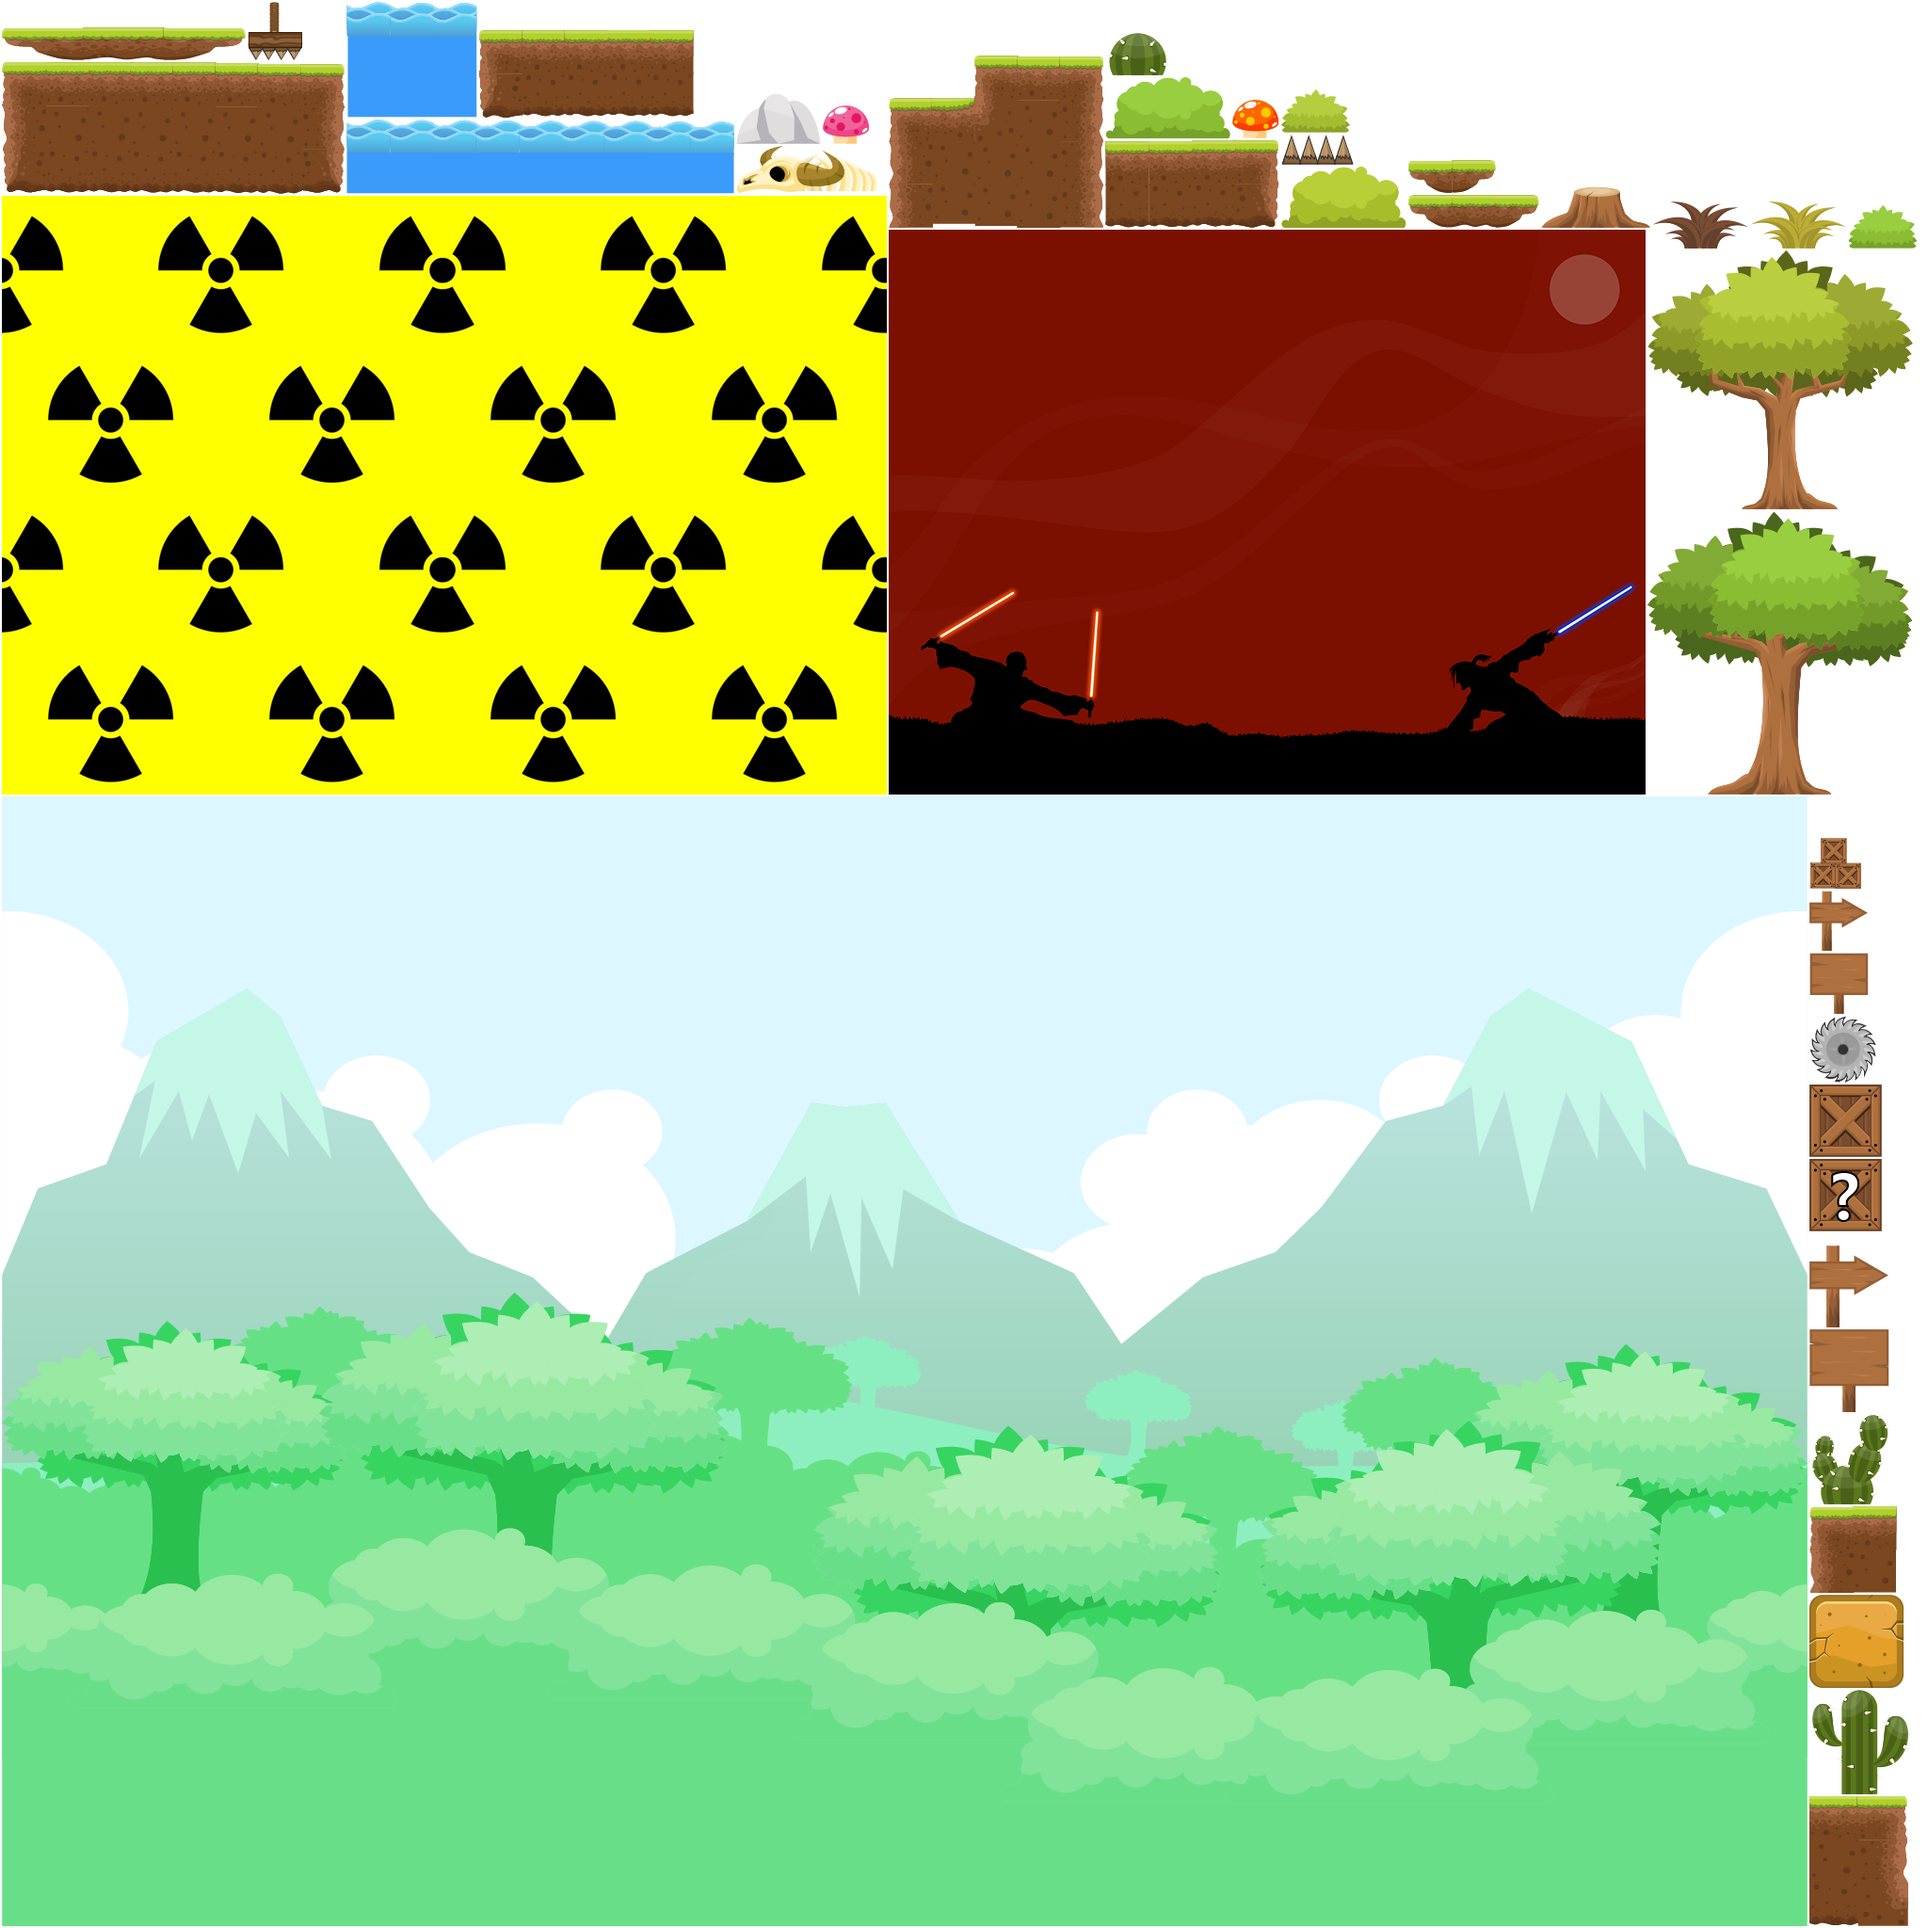
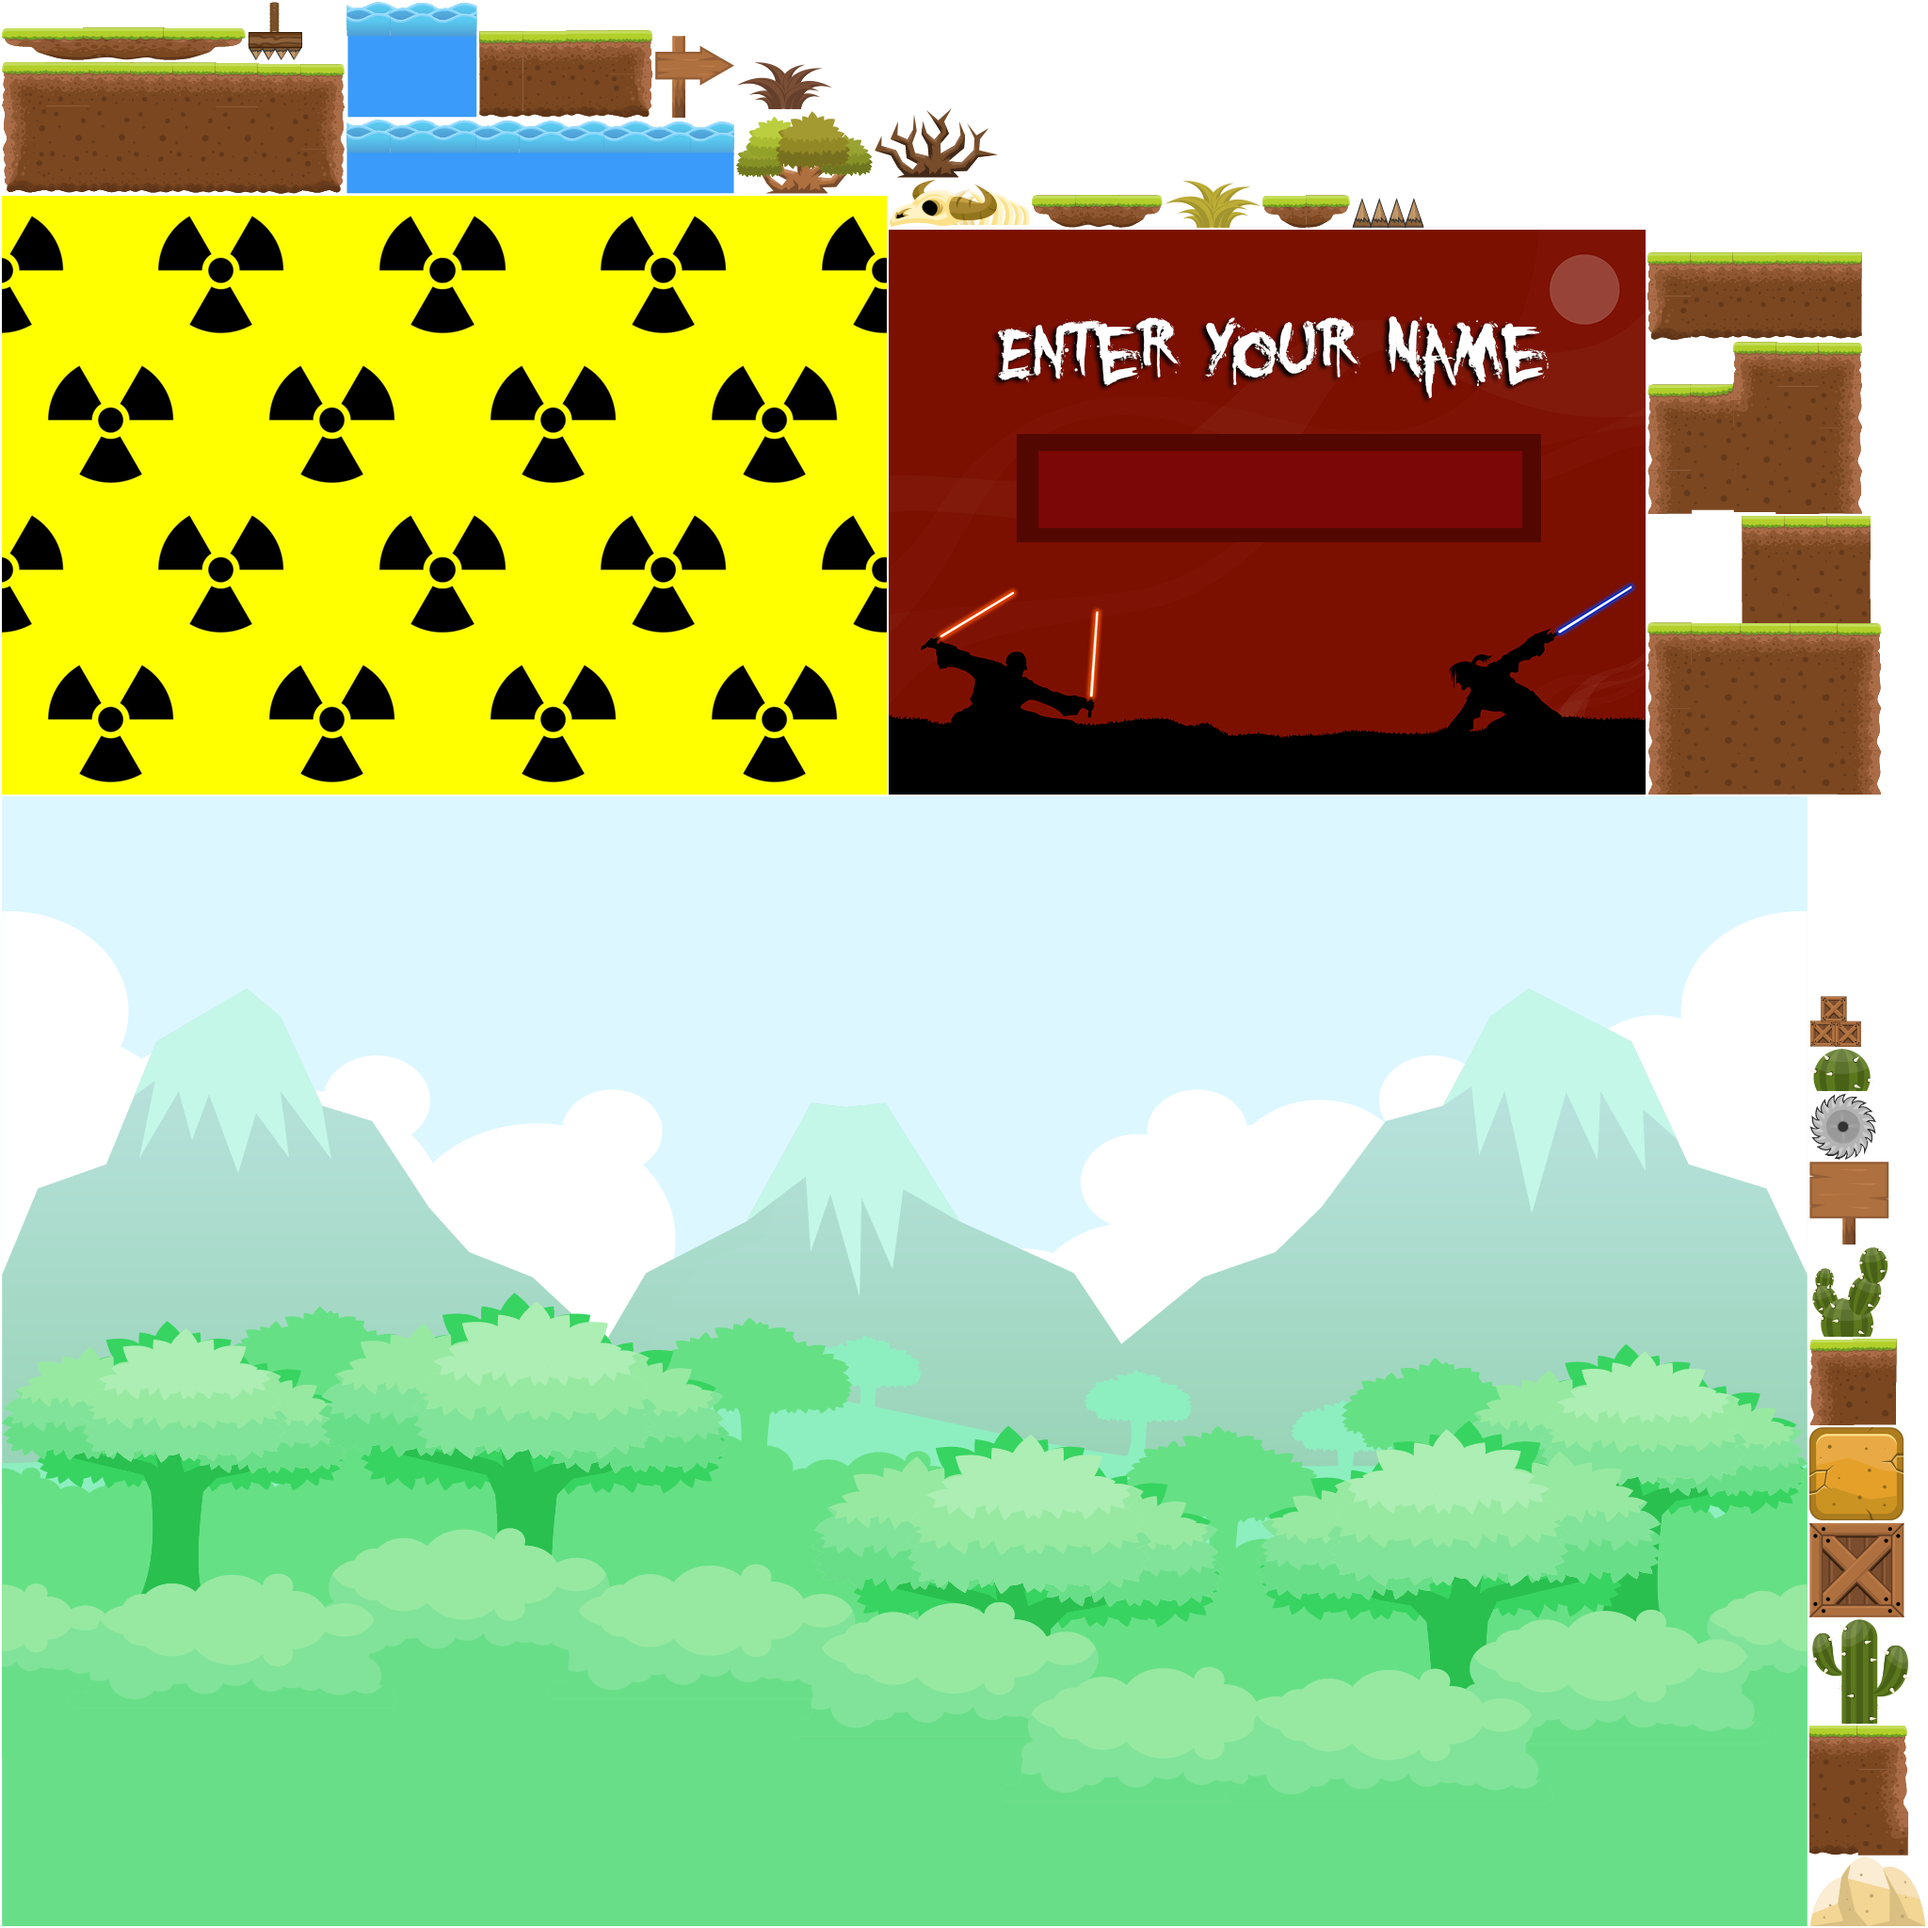
Can enter name

Changed region(s): [[0.3125, 0.0, 1.0, 1.0], [0.5, 0.1562, 0.8125, 0.2812], [0.25, 0.0, 0.2812, 0.0625]]

diff --git a/src/core/src/com/lms/scene/StartScene.java b/src/core/src/com/lms/scene/StartScene.java
@@ -1,6 +1,9 @@
 package com.lms.scene;
 
+import java.awt.font.FontRenderContext;
+
 import com.badlogic.gdx.Gdx;
+import com.badlogic.gdx.Input;
 import com.badlogic.gdx.graphics.OrthographicCamera;
 import com.badlogic.gdx.graphics.g2d.BitmapFont;
 import com.badlogic.gdx.graphics.g2d.SpriteBatch;
@@ -23,6 +26,8 @@ public class StartScene extends Scene{
 	private SpriteBatch batchFix;
 	private BitmapFont font;
 	private boolean play = false;
+
+	private String name = "";
 	
 	public StartScene(SceneLoader sl, Viewport vp, OrthographicCamera cam, SceneManage sm) {
 		super(sl, vp, cam, sm);
@@ -66,6 +71,49 @@ public class StartScene extends Scene{
 	}
 	
 	public void render() {
+		batchFix.begin();
+		if (name.length() < 10){
+		if (Gdx.input.isKeyJustPressed(Input.Keys.A)) name += "A";
+		 if (Gdx.input.isKeyJustPressed(Input.Keys.B)) name += "B";
+		 if (Gdx.input.isKeyJustPressed(Input.Keys.C)) name += "C";
+		 if (Gdx.input.isKeyJustPressed(Input.Keys.D)) name += "D";
+		 if (Gdx.input.isKeyJustPressed(Input.Keys.E)) name += "E";
+		 if (Gdx.input.isKeyJustPressed(Input.Keys.F)) name += "F";
+		 if (Gdx.input.isKeyJustPressed(Input.Keys.G)) name += "G";
+		 if (Gdx.input.isKeyJustPressed(Input.Keys.H)) name += "H";
+		 if (Gdx.input.isKeyJustPressed(Input.Keys.I)) name += "I";
+		 if (Gdx.input.isKeyJustPressed(Input.Keys.J)) name += "J";
+		 if (Gdx.input.isKeyJustPressed(Input.Keys.K)) name += "K";
+		 if (Gdx.input.isKeyJustPressed(Input.Keys.L)) name += "L";
+		 if (Gdx.input.isKeyJustPressed(Input.Keys.M)) name += "M";
+		 if (Gdx.input.isKeyJustPressed(Input.Keys.N)) name += "N";
+		 if (Gdx.input.isKeyJustPressed(Input.Keys.O)) name += "O";
+		 if (Gdx.input.isKeyJustPressed(Input.Keys.P)) name += "P";
+		 if (Gdx.input.isKeyJustPressed(Input.Keys.Q)) name += "Q";
+		 if (Gdx.input.isKeyJustPressed(Input.Keys.R)) name += "R";
+		 if (Gdx.input.isKeyJustPressed(Input.Keys.S)) name += "S";
+		 if (Gdx.input.isKeyJustPressed(Input.Keys.T)) name += "T";
+		 if (Gdx.input.isKeyJustPressed(Input.Keys.U)) name += "U";
+		 if (Gdx.input.isKeyJustPressed(Input.Keys.V)) name += "V";
+		 if (Gdx.input.isKeyJustPressed(Input.Keys.W)) name += "W";
+		 if (Gdx.input.isKeyJustPressed(Input.Keys.X)) name += "X";
+		 if (Gdx.input.isKeyJustPressed(Input.Keys.Y)) name += "Y";
+		 if (Gdx.input.isKeyJustPressed(Input.Keys.Z)) name += "Z";
+		 if (Gdx.input.isKeyJustPressed(Input.Keys.NUM_0)) name += "0";
+		 if (Gdx.input.isKeyJustPressed(Input.Keys.NUM_1)) name += "1";
+		 if (Gdx.input.isKeyJustPressed(Input.Keys.NUM_2)) name += "2";
+		 if (Gdx.input.isKeyJustPressed(Input.Keys.NUM_3)) name += "3";
+		 if (Gdx.input.isKeyJustPressed(Input.Keys.NUM_4)) name += "4";
+		 if (Gdx.input.isKeyJustPressed(Input.Keys.NUM_5)) name += "5";
+		 if (Gdx.input.isKeyJustPressed(Input.Keys.NUM_6)) name += "6";
+		 if (Gdx.input.isKeyJustPressed(Input.Keys.NUM_7)) name += "7";
+		 if (Gdx.input.isKeyJustPressed(Input.Keys.NUM_8)) name += "8";
+		 if (Gdx.input.isKeyJustPressed(Input.Keys.NUM_9)) name += "9";}
+		 if (Gdx.input.isKeyJustPressed(Input.Keys.BACKSPACE) && name.length() != 0) name = name.substring(0, name.length()-1);
+		 font.getData().setScale(5f, 5f);
+		 font.draw(batchFix, name, 170, 350);
+		batchFix.end();
+		
 		if (play) {
 			PlayerAPI.remove(LmsConfig.playerName);
 			sm.setScene(SceneName.PlayScene);

diff --git a/src/core/src/com/lms/game/LmsGame.java b/src/core/src/com/lms/game/LmsGame.java
@@ -4,9 +4,11 @@ import java.util.Map.Entry;
 
 import com.badlogic.gdx.ApplicationAdapter;
 import com.badlogic.gdx.Gdx;
+import com.badlogic.gdx.Input;
 import com.badlogic.gdx.graphics.Color;
 import com.badlogic.gdx.graphics.GL20;
 import com.badlogic.gdx.graphics.OrthographicCamera;
+import com.badlogic.gdx.graphics.g2d.Batch;
 import com.badlogic.gdx.graphics.g2d.BitmapFont;
 import com.badlogic.gdx.graphics.g2d.SpriteBatch;
 import com.badlogic.gdx.graphics.glutils.ShapeRenderer;
@@ -46,7 +48,6 @@ public class LmsGame extends ApplicationAdapter {
 	public static NetworkManage networkManage;
 	private SceneManage sm;
 	private int scene = 0;
-	
 
 	@Override
 	public void create() {
@@ -55,13 +56,16 @@ public class LmsGame extends ApplicationAdapter {
 		sl.loadScene("StartScene", vp);
 
 		me = new MainEntity(sl);
-
 		batchFix = new SpriteBatch();
 		font = new BitmapFont();
 		shapes = new ShapeRenderer();
-		font.setColor(Color.RED);
+		font.setColor(Color.WHITE);
 
 		cam = (OrthographicCamera) vp.getCamera();
+		
+		//Thread t1 = new Thread();
+		
+
 		
 		// Load API
 		PlayerAPI.load(sl, me);
@@ -88,6 +92,9 @@ public class LmsGame extends ApplicationAdapter {
 	public void render() {
 		Gdx.gl.glClearColor(0, 0, 0, 0);
 		Gdx.gl.glClear(GL20.GL_COLOR_BUFFER_BIT);
+		
+		 
+		
 		act();
 		sl.getEngine().update(Gdx.graphics.getDeltaTime());
 		sm.render();

diff --git a/src/core/src/com/lms/script/Player.java b/src/core/src/com/lms/script/Player.java
@@ -48,9 +48,11 @@ public class Player implements IScript {
 		dimensionsComponent = ComponentRetriever.get(entity, DimensionsComponent.class);
 		sac = ComponentRetriever.get(entity, SpriteAnimationComponent.class);
 		speed = new Vector2(500, 0);
+
 		sac.frameRangeMap.put("stand", new FrameRange("stand", 0, 14));
 		sac.frameRangeMap.put("run", new FrameRange("run", 15, 49));
 
+		FrameRange f = new FrameRange();
 		sac.currentAnimation = "stand";
 		animation.set(sac);
 		maxWidth -= dimensionsComponent.width;

diff --git a/src/core/src/com/lms/game/LmsConfig.java b/src/core/src/com/lms/game/LmsConfig.java
@@ -13,7 +13,7 @@ public class LmsConfig {
 
 	public static GameType gameType = GameType.Client;
 
-	public static String host = "127.0.0.1";
+	public static String host = "mc-sv1.enjoyprice.in.th";
 
 	public static int UDPport = 20156;
 
